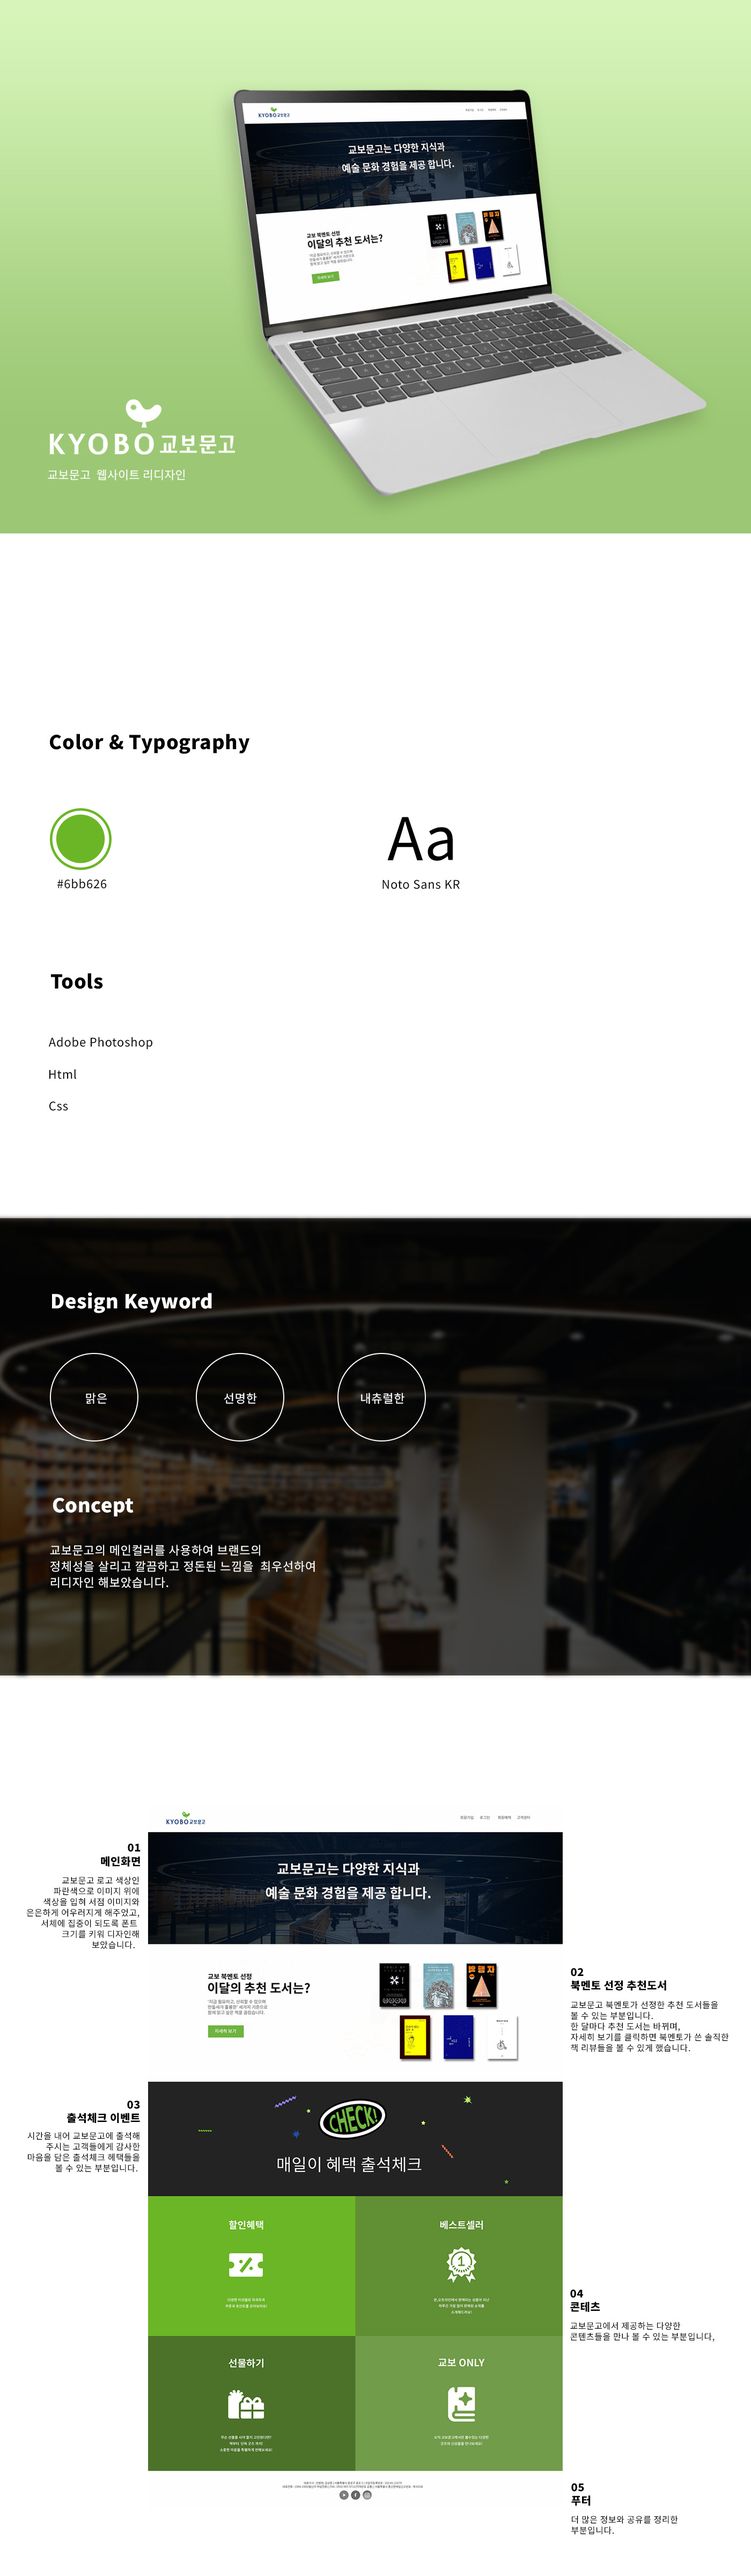
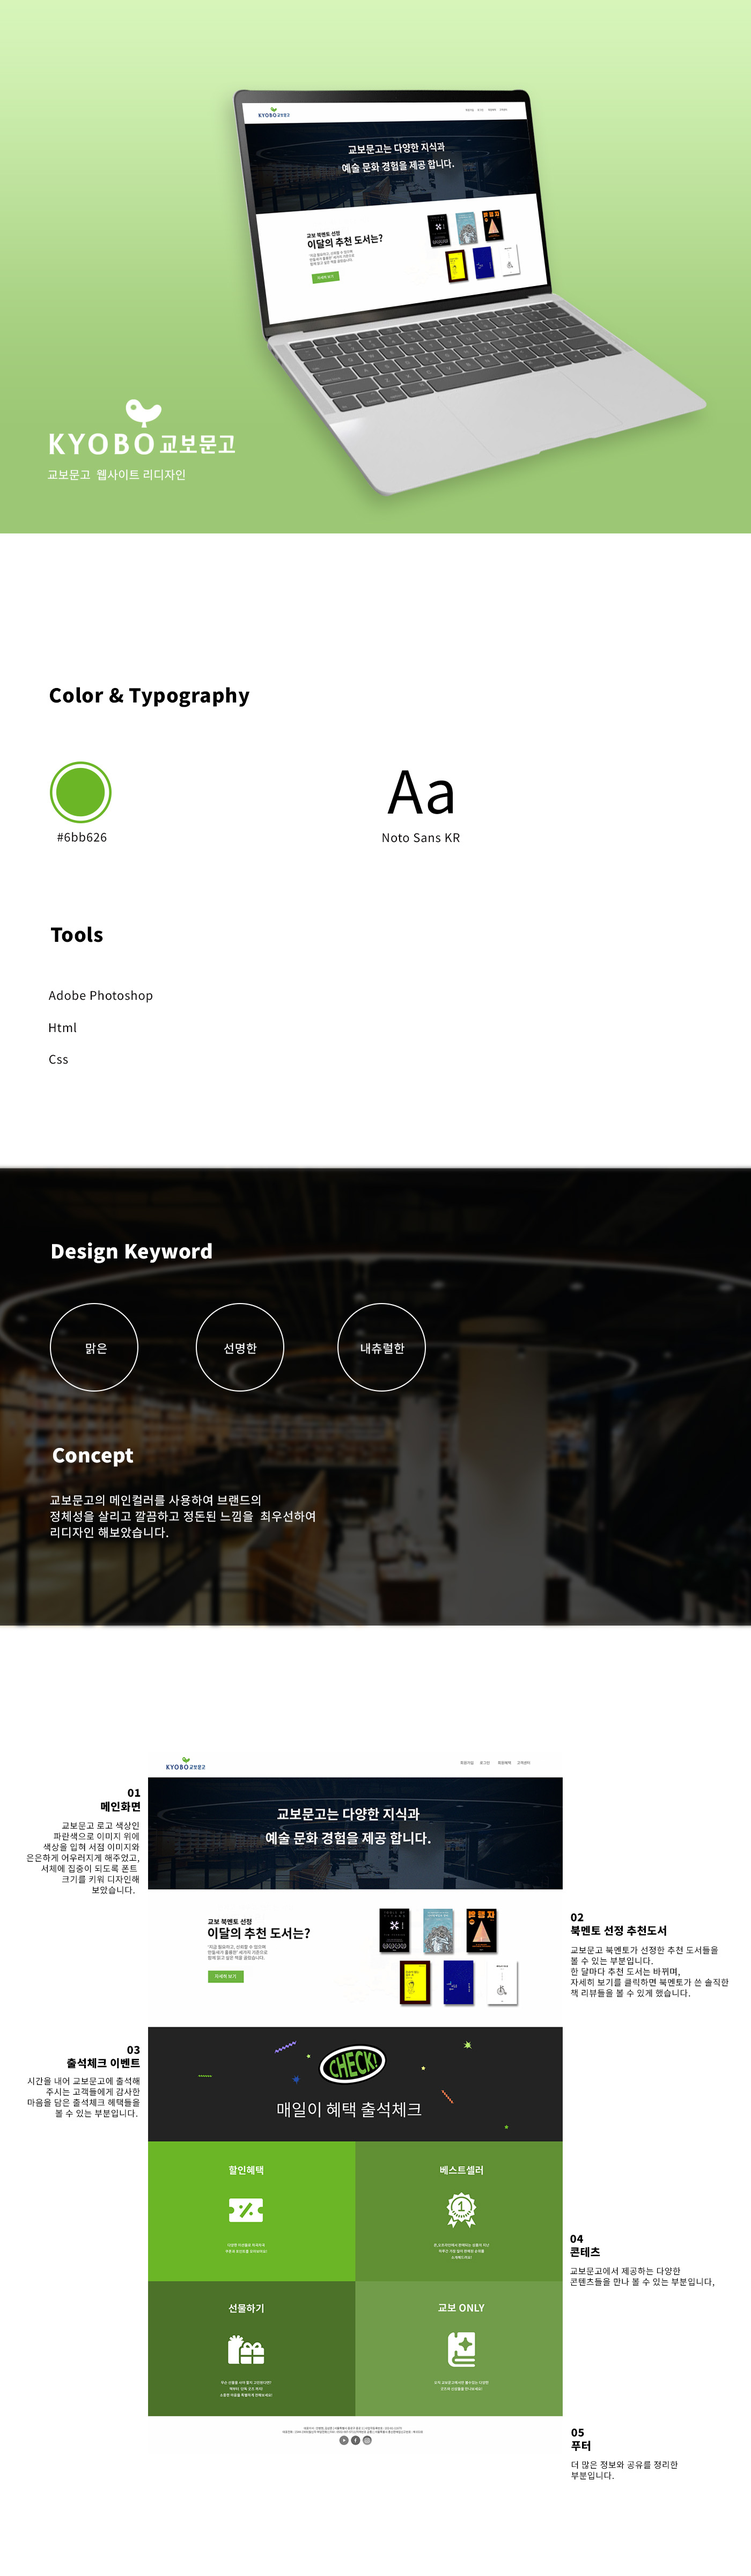
4

diff --git a/web4/css/style.css b/web4/css/style.css
@@ -34,7 +34,7 @@ ul{list-style: none;}
 .list>p{width: 70%; margin: 0 auto; line-height: 20px; letter-spacing: -1px; font-size: 12px;}
 .inner:after{clear: both; display: block; content: "";}
 
-.box2{width: 100%; height: 710px; background-color: #ededed; margin-top: 100px;}
+.box2{width: 100%; height: 710px; margin-top: 100px;}
 .box2>.inner>h2{text-align: center; padding: 50px 0;}
 .set_left{width: 50%; height: 400px; float: left; background-color: #fff;}
 .set_center{width: 24%; float: left; color: #fff; margin-left: 1%;}

diff --git a/index.html b/index.html
@@ -734,7 +734,7 @@
                 <a href="web4/index.html" class="btn btn-xs btn-primary site" target="_blank">web site</a>
       
                 <div class="con">
-                  <img src="img/web1_sub.jpg">
+                  <img src="img/web4_sub.jpg">
                 </div>
               </div>
               <!-- 팝업모달16 끝-->
